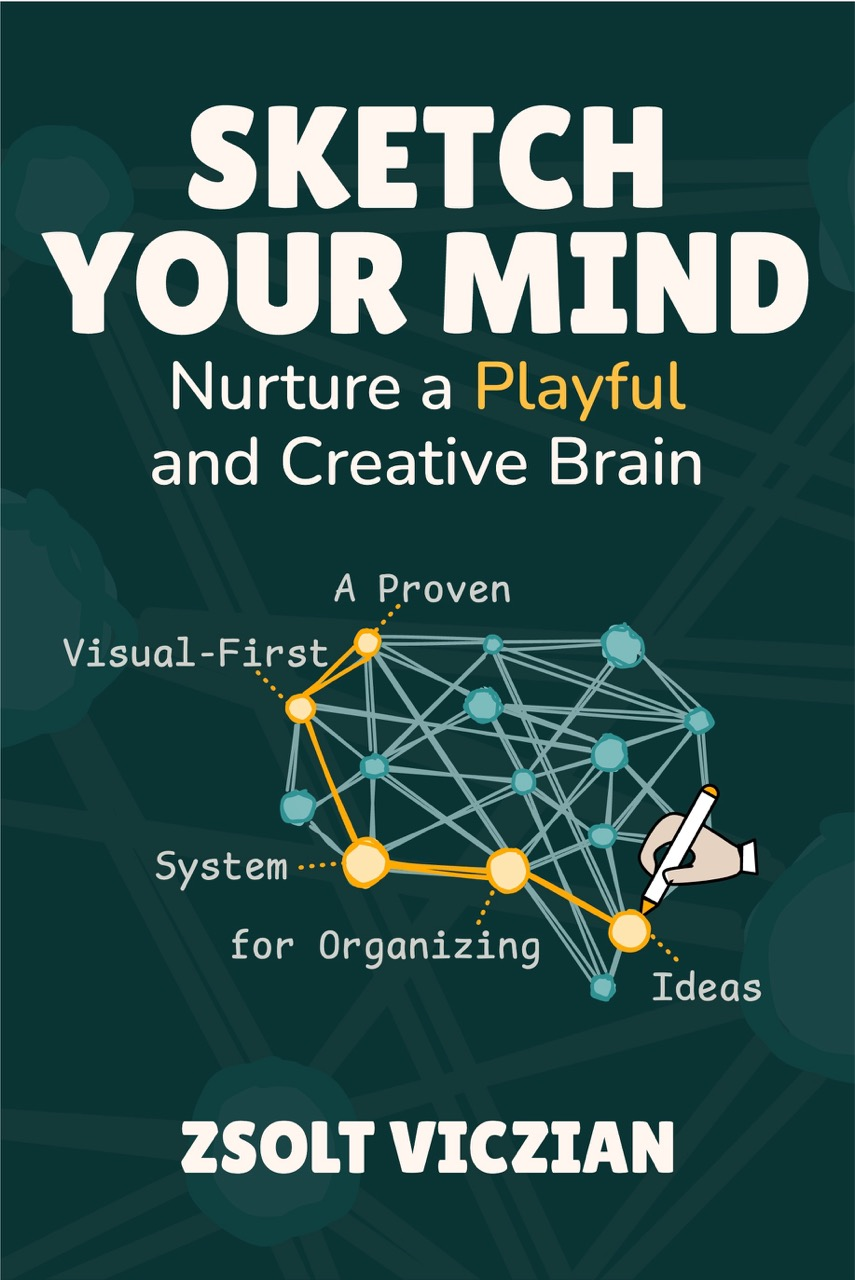
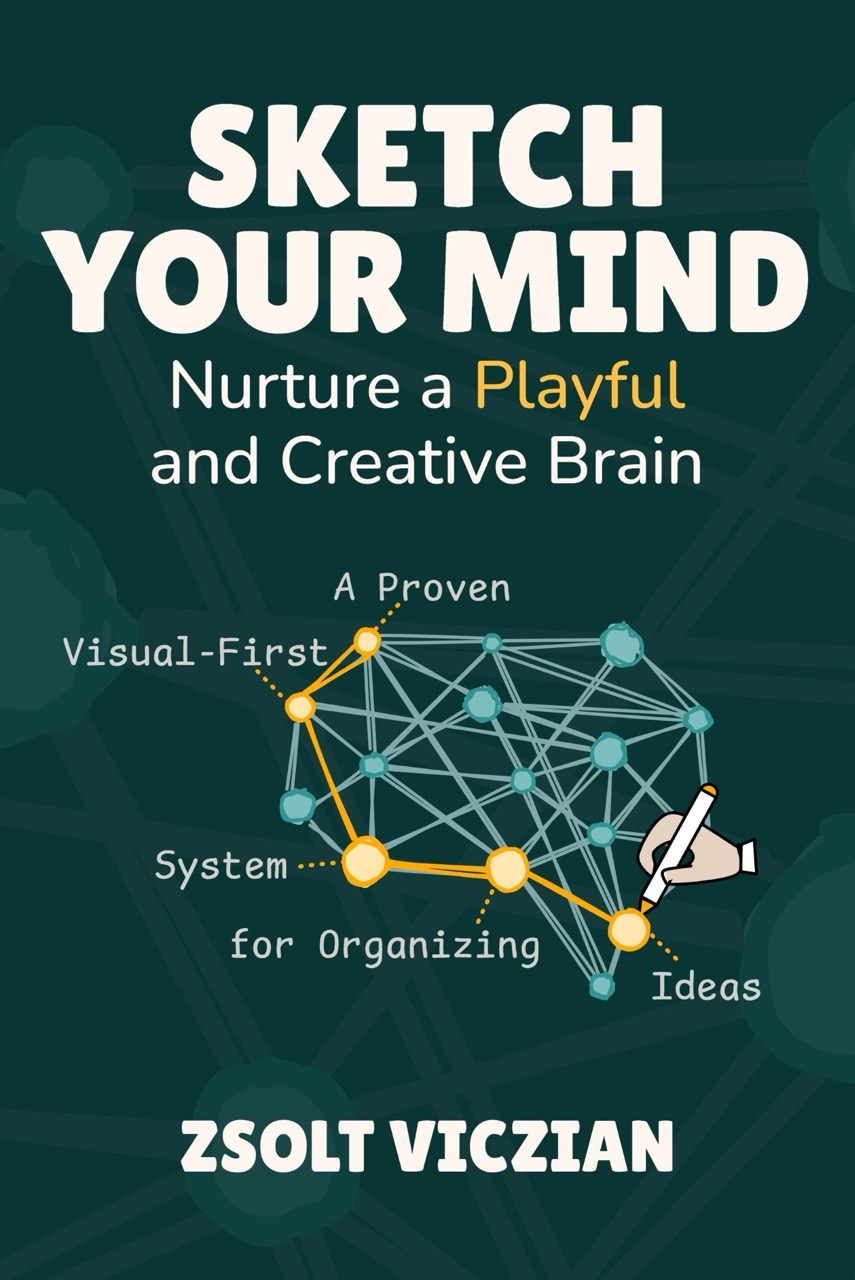
updated cover

diff --git a/index.html b/index.html
@@ -261,7 +261,7 @@
 </head>
 <body>
     <div class="container">
-        <img src="images/cover.png" alt="Sketch Your Mind Book Cover" class="book-cover">
+        <img src="images/cover.jpg" alt="Sketch Your Mind Book Cover" class="book-cover">
         <h1>Sketch Your Mind</h1>
         <div class="subtitle">Nurture a Playful and Creative Brain</div>
         <p><strong>Release Date:</strong> June 15, 2025</p>
